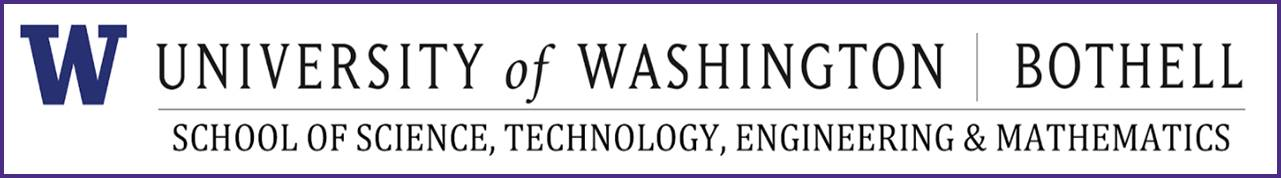
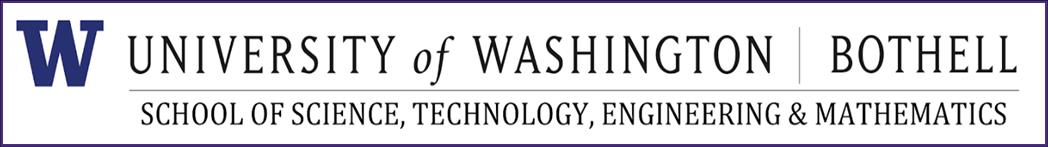
Add files via upload

diff --git a/index.htm b/index.htm
@@ -23,10 +23,10 @@ w\:* {behavior:url(#default#VML);}
   <o:Author>Isabelle</o:Author>
   <o:Template>Normal</o:Template>
   <o:LastAuthor>Isabelle Heier</o:LastAuthor>
-  <o:Revision>5</o:Revision>
-  <o:TotalTime>3</o:TotalTime>
-  <o:Created>2020-07-20T17:49:00Z</o:Created>
-  <o:LastSaved>2020-07-20T17:51:00Z</o:LastSaved>
+  <o:Revision>2</o:Revision>
+  <o:TotalTime>6</o:TotalTime>
+  <o:Created>2020-07-20T17:54:00Z</o:Created>
+  <o:LastSaved>2020-07-20T17:54:00Z</o:LastSaved>
   <o:Pages>1</o:Pages>
   <o:Words>255</o:Words>
   <o:Characters>1457</o:Characters>
@@ -41,6 +41,8 @@ w\:* {behavior:url(#default#VML);}
 <!--[if gte mso 9]><xml>
  <w:WordDocument>
   <w:DisplayBackgroundShape/>
+  <w:SpellingState>Clean</w:SpellingState>
+  <w:GrammarState>Clean</w:GrammarState>
   <w:TrackMoves>false</w:TrackMoves>
   <w:TrackFormatting/>
   <w:PunctuationKerning/>
@@ -836,6 +838,9 @@ p.MsoSubtitle, li.MsoSubtitle, div.MsoSubtitle
 	mso-fareast-font-family:Arial;
 	color:#666666;
 	mso-ansi-language:EN;}
+span.GramE
+	{mso-style-name:"";
+	mso-gram-e:yes;}
 .MsoChpDefault
 	{mso-style-type:export-only;
 	mso-default-props:yes;
@@ -912,18 +917,22 @@ div.WordSection1
  <o:lock v:ext="edit" aspectratio="t"/>
 </v:shapetype><v:shape id="image1.png" o:spid="_x0000_s1026" type="#_x0000_t75"
  alt="UWB Logo" style='position:absolute;left:0;text-align:left;margin-left:0;
- margin-top:1.95pt;width:781pt;height:106.1pt;z-index:-251658240;visibility:visible;
- mso-wrap-style:square;mso-wrap-distance-left:0;mso-wrap-distance-top:0;
+ margin-top:1.95pt;width:781.2pt;height:105.85pt;z-index:-251658240;
+ visibility:visible;mso-wrap-style:square;mso-width-percent:0;
+ mso-height-percent:0;mso-wrap-distance-left:0;mso-wrap-distance-top:0;
  mso-wrap-distance-right:0;mso-wrap-distance-bottom:0;
  mso-position-horizontal:center;mso-position-horizontal-relative:margin;
- mso-position-vertical:absolute;mso-position-vertical-relative:text' stroked="t"
- strokecolor="#4b2e83" strokeweight="2pt">
+ mso-position-vertical:absolute;mso-position-vertical-relative:text;
+ mso-width-percent:0;mso-height-percent:0;mso-width-relative:margin;
+ mso-height-relative:margin' o:allowoverlap="f" stroked="t" strokecolor="#4b2e83"
+ strokeweight="2pt">
  <v:imagedata src="index_files/image001.png" o:title="UWB Logo"/>
  <w:wrap anchorx="margin"/>
+ <w:anchorlock/>
 </v:shape><![endif]--><![if !vml]><span style='mso-ignore:vglayout;position:
 absolute;z-index:-1895825408;left:0px;margin-left:0px;margin-top:0px;
-width:1047px;height:147px'><img width=1047 height=147
-src="index_files/image005.jpg" alt="UWB Logo" v:shapes="image1.png"></span><![endif]><span
+width:1048px;height:147px'><img width=1048 height=147
+src="index_files/image002.jpg" alt="UWB Logo" v:shapes="image1.png"></span><![endif]><span
 lang=EN style='font-size:36.0pt;font-family:"Helvetica Neue";mso-fareast-font-family:
 "Helvetica Neue";mso-bidi-font-family:"Helvetica Neue"'><o:p></o:p></span></p>
 
@@ -950,9 +959,9 @@ style='font-size:14.0pt;font-family:"Helvetica Neue Light";mso-fareast-font-fami
 the School of STEM Colloquium Symposium! We are celebrating the hard work and
 perseverance of our students, who have conducted their projects remotely during
 a very challenging quarter, amidst a global pandemic, an economic crisis, and
-the recent and widespread protest against racial inequities. Many presentations
-will be running concurrently, so you will have to make difficult decisions
-about which to attend.<o:p></o:p></span></p>
+the recent and widespread <span class=GramE>protest against</span> racial
+inequities. Many presentations will be running concurrently, so you will have
+to make difficult decisions about which to attend.<o:p></o:p></span></p>
 
 <p class=MsoNormal style='margin-left:13.5pt;line-height:normal'><span lang=EN
 style='font-size:14.0pt;font-family:"Helvetica Neue Light";mso-fareast-font-family:
@@ -967,7 +976,7 @@ lang=EN style='font-size:14.0pt;font-family:"Times New Roman",serif;mso-fareast-
  <v:imagedata src="index_files/image003.jpg" o:title="" croptop="13141f"
   cropbottom="50005f"/>
 </v:shape><![endif]--><![if !vml]><img width=863 height=24
-src="index_files/image006.jpg" v:shapes="image2.jpg"><![endif]></span><span
+src="index_files/image004.jpg" v:shapes="image2.jpg"><![endif]></span><span
 lang=EN style='font-size:14.0pt;font-family:"Times New Roman",serif;mso-fareast-font-family:
 "Times New Roman"'><o:p></o:p></span></p>
 
@@ -983,13 +992,14 @@ your microphone. Turn on your video if possible, so you are providing an
 engaged audience rather than a blank page to the presenter. If you have a
 question, use &quot;Raise Hand&quot; under Participants in Zoom controls. At
 the end of the presentation, use &quot;Clap&quot; under Reactions to show your
-appreciation of the presentation. Treat being a Zoom audience similar to being
-an audience in a regular presentation, excessive fidgeting or moving around can
-be distracting to the presenter. If you or anybody in the household is
-streaming video during the presentation, you may get choppy video or see an
-&quot;unstable connection&quot; appear on your screen. If you are using a
-laptop machine, plug it in so you don't run out of power during the
-presentations or worse run out of power when you are presenting!<o:p></o:p></span></p>
+appreciation of the presentation. Treat being a Zoom audience <span
+class=GramE>similar to</span> being an audience in a regular presentation,
+excessive fidgeting or moving around can be distracting to the presenter. If
+you or anybody in the household is streaming video during the presentation, you
+may get choppy video or see an &quot;unstable connection&quot; appear on your
+screen. If you are using a laptop machine, plug it in so you <span class=GramE>don't</span>
+run out of power during the presentations or worse run out of power when you
+are presenting!<o:p></o:p></span></p>
 
 <p class=MsoNormal><span lang=EN><o:p>&nbsp;</o:p></span></p>
 
